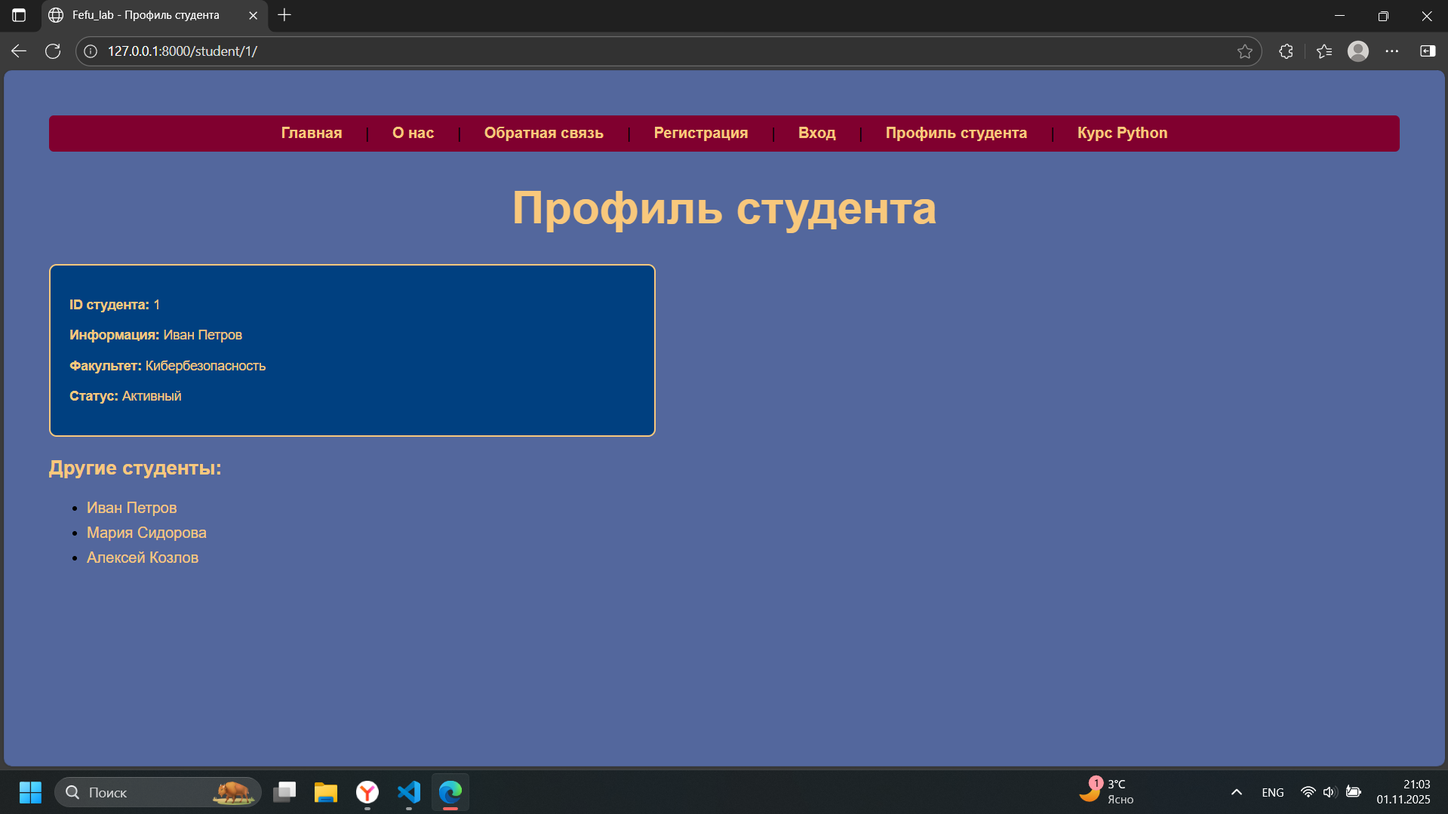
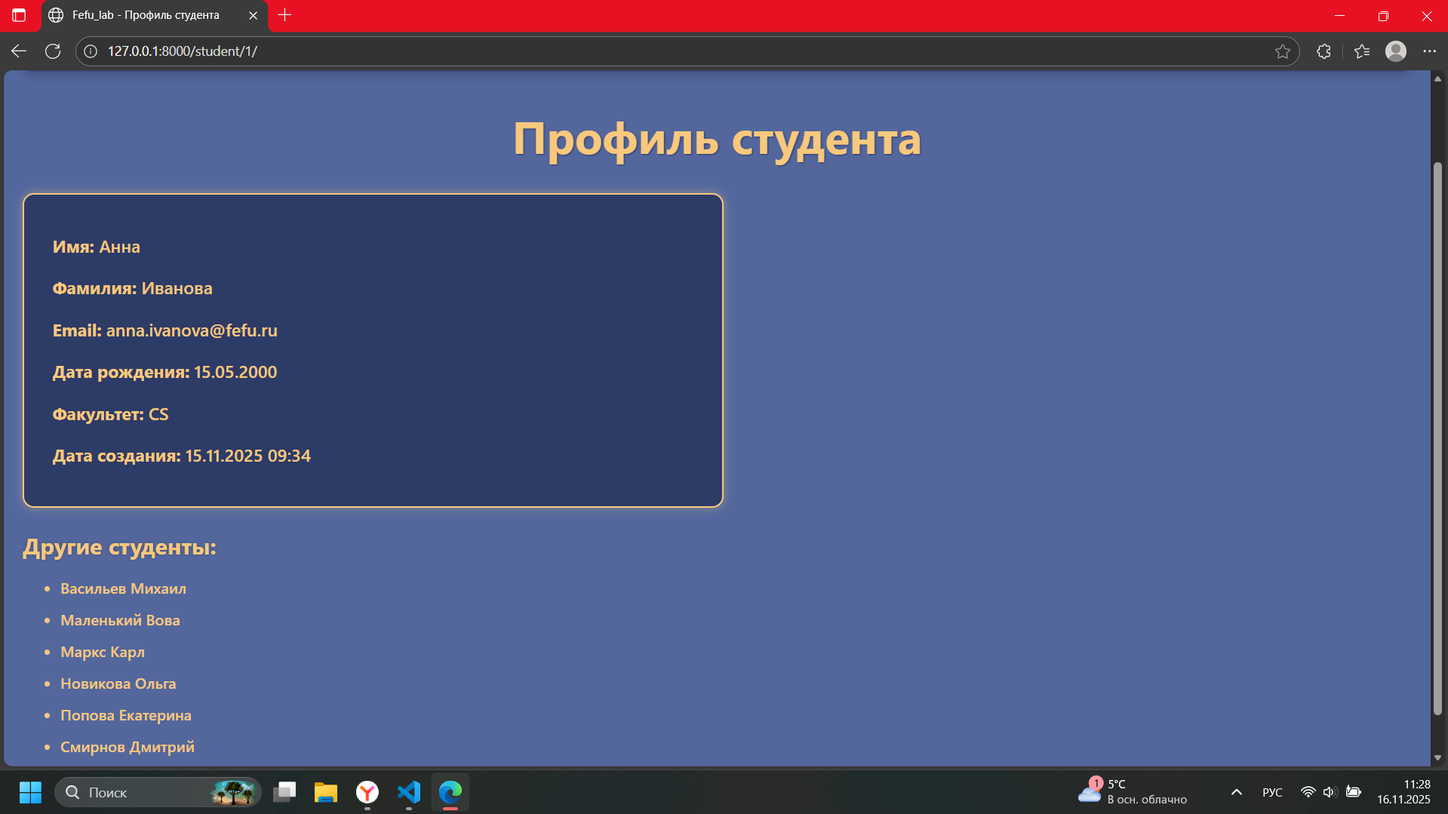
Update

diff --git a/README.md b/README.md
@@ -1,275 +1,31 @@
 Лабораторная работа №2. Шаблоны, статические файлы, веб-формы и серверная обработка пользовательского ввода
 Романов Антон Сергеевич, С9121-10.05.01ммзи
 
-Пояснения к ключевым моментам кода:
-CSRF-защита
-<form method="post">
-    {% csrf_token %}
-    
-    {% for field in form %}
-        ...
-    {% endfor %}
-</form>
-<form method="post"> — создаёт HTML-форму, которая отправляет данные методом POST на тот же URL, где она отображается. POST используется при отправке данных, чтобы они не отображались в адресной строке и сервер мог обрабатывать их для изменения состояния (например, сохранения).
-{% csrf_token %} — это встроенный в Django шаблонный тег, который вставляет в форму скрытое поле с уникальным CSRF-токеном (Cross-Site Request Forgery token). Этот токен защищает приложение от CSRF-атак, когда злоумышленник пытается отправить данные от имени пользователя без его ведома. Токен проверяется сервером при получении POST-запроса и позволяет подтвердить, что запрос пришёл с вашего сайта, а не с чужого.
-{% for field in form %} — это цикл по всем полям формы, переданной в шаблон из views. Django автоматически рендерит HTML элементы для каждого поля вместе с подписью (label), виджетом ввода и возможными ошибками. Такой подход упрощает создание форм, позволяет гибко кастомизировать их вид и удобно показывать ошибки валидации.
-Таким образом, данные строки обеспечивают корректную отправку формы с защитой CSRF и удобный вывод полей формы в шаблоне.
-При отправке запроса с подмененным/отсутствующим csrf токеном получаем ошибку. Для проверки:
-- открываем инструменты разработчика и находим там csrfmiddlewaretoken
+Ключевые фрагменты кода и пояснения:
 
-<img src="image/csrf_true.png" alt="true">
+Модели (models.py)
+Были созданы модели Student, Instructor, Course, Enrollment с необходимыми полями для хранения информации о студентах, преподавателях, курсах и записях на курсы. Например, модель Course включает поля title, slug, duration, instructor, level, max_students, что соответствует предметной области и требованиям задания.
+Это позволяет работать с базой через ORM, обеспечивая целостность данных и простоту управления ими.
 
-- заменяем его на значение на произвольное значение
+Заполнение тестовыми данными (seed_data.py)
+Команда для наполнения базы тестовыми данными создает и сохраняет преподавателей, студентов, курсы и записи на курсы, что позволяет оперативно тестировать функционал без необходимости ручного ввода.
 
-<img src="image/csrf_false.png" alt="false">
+Представления (views.py)
+Представления обновлены для работы с реальными моделями:
 
-Заполняем логин-пароль, отправляем запрос и получаем ошибку
+home_page собирает статистику по студентам, курсам и преподавателям из базы и передает для рендеринга.
 
-<img src="image/403.png" alt="error">
+student_profile и course_profile выводят детальную информацию о конкретных студентах и курсах с помощью get_object_or_404, обеспечивая корректную обработку несуществующих записей.
 
-Проверка работоспособности
-Окно регистрации
-class RegistrationForm(forms.Form):
-    username = forms.CharField(
-        max_length=50,
-        label='Логин',
-        widget=forms.TextInput(attrs={'class': 'form-control'})
-    )
-    email = forms.EmailField(
-        label='Email',
-        widget=forms.EmailInput(attrs={'class': 'form-control'})
-    )
-    password = forms.CharField(
-        label='Пароль',
-        widget=forms.PasswordInput(attrs={'class': 'form-control'})
-    )
-    password_confirm = forms.CharField(
-        label='Подтверждение пароля',
-        widget=forms.PasswordInput(attrs={'class': 'form-control'})
-    )
-    def clean_username(self):
-        username = self.cleaned_data['username']
-        if User.objects.filter(username=username).exists():
-            raise ValidationError("Пользователь с таким логином уже существует")
-        return username
+Добавлены формы регистрации и логина с проверкой уникальности имени и email, с интеграцией в базу через модели Django и собственную модель Student, что соответствует требованиям безопасной и полноценной регистрации.
 
-    def clean_email(self):
-        email = self.cleaned_data['email']
-        if User.objects.filter(email=email).exists():
-            raise ValidationError("Пользователь с таким email уже существует")
-        return email
+Формы (forms.py)
+Реализованы формы на основе Django Forms и ModelForms для удобной валидации и обработки данных пользователей, регистраций и обратной связи. Применена проверка уникальности email в базе студентов и пользователей Django, что гарантирует отсутствие дубликатов.
 
-    def clean_password(self):
-        password = self.cleaned_data['password']
-        validate_password(password)  # проверка сложности пароля
-        return password
+Шаблоны (templates)
+Используется наследование от базового шаблона base.html для унификации интерфейса.
 
-    def clean(self):
-        cleaned_data = super().clean()
-        password = cleaned_data.get('password')
-        password_confirm = cleaned_data.get('password_confirm')
-        if password and password_confirm and password != password_confirm:
-            self.add_error('password_confirm', "Пароли не совпадают")
-Поля формы (username, email, password, password_confirm) описываются с нужными виджетами и метками.
-
-Метод clean_<fieldname>() выполняет валидацию конкретного поля:
-
-clean_username() проверяет, что введённый логин уникален (нет другого пользователя с таким логином).
-
-clean_email() проверяет уникальность email.
-
-clean_password() применяет встроенные валидаторы паролей Django, которые проверяют сложность (например, минимальную длину и другие правила, заданные в AUTH_PASSWORD_VALIDATORS).
-
-Метод clean() вызывается после индивидуальных валидаций полей и позволяет проверять несколько полей вместе.
-
-Здесь проверяется, что пароль и его подтверждение совпадают.
-
-Для поля password_confirm при несовпадении добавляется ошибка через add_error(), чтобы эта ошибка отображалась рядом с полем подтверждения.
-
-Такой подход обеспечивает комплексную server-side валидацию каждого поля и взаимосвязанных данных формы, а также подготовку корректных ошибок для отображения пользователю.
-
-<img src="image/reg_fail1.png" alt="reg_fail1">
-<img src="image/reg_fail2.png" alt="reg_fail2">
-
-Окно входа
-class LoginForm(forms.Form):
-    username = forms.CharField(
-        max_length=50,
-        label='Логин',
-        widget=forms.TextInput(attrs={'class': 'form-control'})
-    )
-    password = forms.CharField(
-        label='Пароль',
-        widget=forms.PasswordInput(attrs={'class': 'form-control'})
-    )
-    def clean(self):
-        cleaned_data = super().clean()
-        username = cleaned_data.get('username')
-        password = cleaned_data.get('password')
-
-
-        if username and password:
-            user = authenticate(username=username, password=password)
-            if user is None:
-                raise forms.ValidationError("Неверный логин или пароль")
-        return cleaned_data
-    def get_user(self):
-        return getattr(self, 'user', None)
-Код класса LoginForm служит для реализации формы входа пользователя с проверкой аутентификации:
-
-В полях формы:
-
-username — текстовое поле для ввода логина с ограничением длины до 50 символов и CSS-классом для оформления.
-
-password — поле для ввода пароля с отображением скрытого текста.
-
-Метод clean(self):
-
-Вызывается при валидации всей формы.
-
-Извлекает из очищенных данных (cleaned_data) значения username и password.
-
-Если обе переменные существуют, вызывается функция authenticate(username=username, password=password) из Django — она пытается найти пользователя с таким логином и паролем.
-
-Если пользователь не найден (authenticate вернул None), генерируется исключение forms.ValidationError с сообщением "Неверный логин или пароль".
-
-Это препятствует успешному прохождению валидации формы и позволяет отобразить ошибку пользователю.
-
-Метод get_user(self) возвращает объект пользователя, записанный в атрибут self.user во время аутентификации в clean(). Если self.user не присвоен, возвращает None. Это позволяет извлекать аутентифицированного пользователя после успешной валидации формы.
-
-Таким образом, вся проверка учетных данных происходит server-side в форме, и при ошибке в логине или пароле форма считается невалидной с отображением ошибки. После успешной валидации можно получить пользователя и выполнить вход в систему.
-
-Успешный вход
-
-<img src="image/success_log.png" alt="success">
-
-Ввод неверного пароля
-
-<img src="image/fail_log.png" alt="fail">
-
-Окно обратной связи
-
-class FeedbackForm(forms.Form):
-    name = forms.CharField(
-        label='Имя',
-        required=True,
-        widget=forms.TextInput(attrs={'class': 'form-control'})
-    )
-    email = forms.EmailField(
-        label='Email',
-        required=True,
-        widget=forms.EmailInput(attrs={'class': 'form-control'})
-    )
-    subject = forms.CharField(
-        label='Тема сообщения',
-        required=True,
-        widget=forms.TextInput(attrs={'class': 'form-control'})
-    )
-    message = forms.CharField(
-        label='Текст сообщения',
-        required=True,
-        widget=forms.Textarea(attrs={'class': 'form-control'})
-    )
-
-
-    def clean_name(self):
-        name = self.cleaned_data['name']
-        if len(name.strip()) < 2:
-            raise ValidationError("Имя должно содержать минимум 2 символа")
-        return name.strip()
-
-
-    def clean_message(self):
-        message = self.cleaned_data['message']
-        if len(message.strip()) < 10:
-            raise ValidationError("Сообщение должно содержать минимум 10 символов")
-        return message.strip()
-Код формы FeedbackForm:
-
-Определяет обязательные поля:
-
-name с меткой Имя, обязательное для заполнения, с CSS-классом оформления.
-
-email с меткой Email, тоже обязательное, с валидацией формата e-mail.
-
-subject с меткой Тема сообщения, обязательное текстовое поле.
-
-message с меткой Текст сообщения, обязательное текстовое поле с виджетом Textarea.
-
-Метод clean_name(self) — кастомная проверка для поля Имя:
-
-Получает введённое имя, убирает пробелы с начала и конца.
-
-Если длина после обрезки меньше 2 символов — выбрасывает исключение ValidationError с сообщением, что имя должно содержать минимум 2 символа.
-
-Возвращает очищенное значение.
-
-Метод clean_message(self) — кастомная проверка для поля Текст сообщения:
-
-Аналогично убирает пробелы и проверяет минимальную длину (не менее 10 символов).
-
-При несоответствии выбрасывает ValidationError с сообщением о минимальной длине.
-
-<img src="image/back_fail1.png" alt="fail">
-<img src="image/back_fail2.png" alt="fail">
-<img src="image/back_fail3.png" alt="fail">
-
-def student_profile(request, student_id):
-    if student_id in STUDENTS_DATA:
-        student_data = STUDENTS_DATA[student_id]
-        return render(request, 'student.html', {
-            'student_id': student_id,
-            'student_info': student_data['info'],
-            'faculty': student_data['faculty'],
-            'status': student_data['status'],
-            'year': student_data['year']
-        })
-    else:
-        return render(request, '404.html', status=404)
-Это Django view-функция, которая принимает объект запроса request и идентификатор студента student_id.
-
-STUDENTS_DATA —  словарь, где ключ — student_id, а значение — данные студента (словарь с ключами info, faculty, status, year).
-
-Если student_id найден в STUDENTS_DATA, из этого словаря берутся сведения о студенте.
-
-Затем вызывается функция render, которая формирует HTTP-ответ с использованием шаблона student.html и передаёт в него данные студента: идентификатор, сведения, факультет, статус и год обучения.
-
-Если student_id отсутствует в данных, возвращается страница 404 с шаблоном 404.html и соответствующим статусом HTTP 404 (страница не найдена).
-
-def login_view(request):
-    if request.method == 'POST': 
-        form = LoginForm(request.POST) 
-        if form.is_valid(): 
-            user = form.get_user() 
-            
-            return render(request, 'success.html', { 
-                'message': 'Вход выполнен успешно! Добро пожаловать в систему.',
-                'title': 'Вход в систему'
-            })
-    else:
-        form = LoginForm() 
-    
-    return render(request, 'login.html', { 
-        'form': form, 
-        'title': 'Вход в систему'
-    })
-Код функции login_view реализует обработку формы входа пользователя следующим образом:
-
-При запросе методом POST:
-
-Создаётся объект формы LoginForm с данными из POST-запроса.
-
-Вызывается метод form.is_valid(), который проверяет корректность введённых данных и аутентифицирует пользователя (если аутентификация реализована в форме).
-
-Если форма валидна, вызывается form.get_user(), возвращающий объект аутентифицированного пользователя.
-
-В ответ рендерится страница success.html с сообщением об успешном входе.
-
-При запросе методом GET:
-
-Создаётся пустая форма LoginForm, которая будет выведена пользователю.
-
-В обоих случаях (GET и POST с ошибками) выполняется рендеринг шаблона login.html с формой и заголовком.
+В шаблонах профиля студента и деталей курсов применены динамичные данные и циклы для отображения списков, ссылки генерируются через {% url %}, что обеспечивает устойчивость к изменениям маршрутов.
 
 Скриншоты корректно работающего приложения
 
